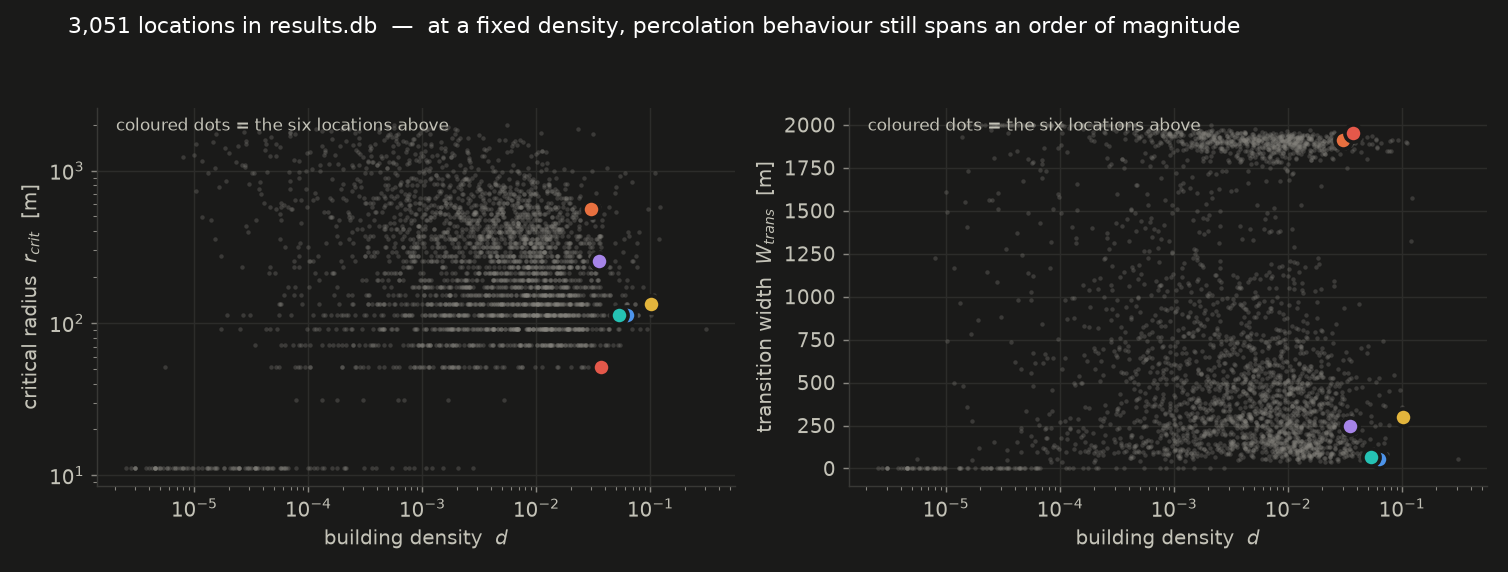
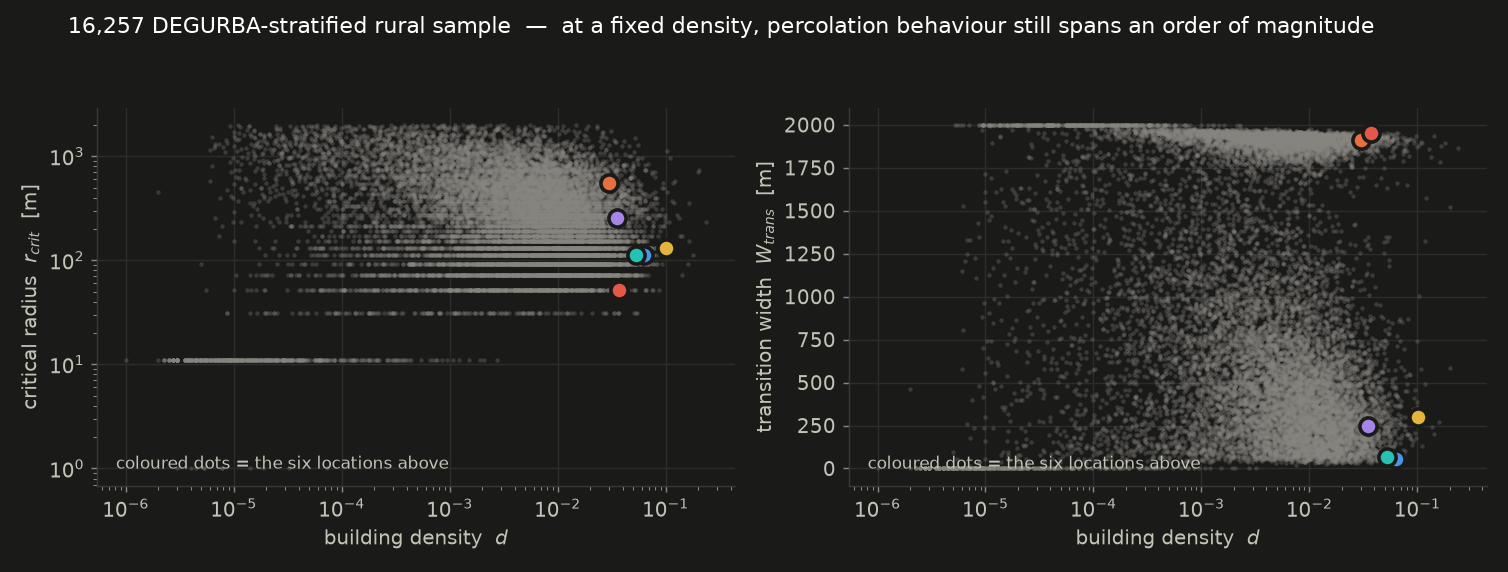
README: コーパス散布図を DEGURBA 層化サンプル 16,257地点に差し替え
これまでこのパネルはこのマシンの results.db（done 3,051地点）だけで描いており、
本番バッチ全体の2割弱しか映していなかった。全機分を統合した実現サンプル
（exp05 の realized_sample.csv）で描き直し、冒頭の6地点をパネル色で重ねた。

make_figures.py に --corpus を追加。省略時の挙動（results.db）は従来どおり。

注意: 統合DB由来の realized_sample.csv には `ops merge` の列ズレ（930f933 で
修正）が入っていたため、本コミットの図は列を正しい対応に戻したものを使っている。
戻しの正しさは results.db と重なる 3,049地点で検証済み（r_crit / W_trans /
gamma / perc_gmax の4指標すべて 100.00% 一致）。元からズレていなかった 217行
(1.3%) は補正すると不整合になるため除外し、16,257地点を採用した。
統合DBを修正版 merge で作り直したら、そのまま --corpus に渡せば図は再現できる。

r_crit の横縞はアーティファクトではなく、パーコレーションの距離グリッド
（config.yaml の d_steps）による量子化であることを README に明記した。

Claude-Session: https://claude.ai/code/session_01TnnMMyhWv1cDxWDR5vzFBe

diff --git a/docs/make_figures.py b/docs/make_figures.py
@@ -1,11 +1,13 @@
 """README 用の図を results.db から生成する。
 
-    .venv/bin/python docs/make_figures.py --db results/results.db --out docs/assets
+    .venv/bin/python docs/make_figures.py --db results/results.db --out docs/assets \
+        --corpus experiments/exp05_degurba_breakdown/realized_sample.csv
 
 生成物（すべて docs/assets/):
-  sample_{dense,sparse}.png    パイプラインが出力したオーバーレイ PNG の縮小版
+  samples_{light,dark}.png     建物数密度を揃えた6地点のオーバーレイ 2×3
   curves_{light,dark}.png      3指標の曲線（percolation / lacunarity / MFA）の対比
   corpus_{light,dark}.png      コーパス全体での density vs 相転移指標の散布図
+                               （--corpus 省略時は results.db のみ）
   outliers_{light,dark}.png    指標空間のはずれ値5地点 + オーバーレイの色凡例
 
 light / dark の2枚組は GitHub の `<picture>` によるテーマ切り替え用。
@@ -255,13 +257,27 @@ def make_curves(conn: sqlite3.Connection, out: Path, mode: str) -> None:
 
 # ---------------------------------------------------------------- corpus
 
-def make_corpus(conn: sqlite3.Connection, out: Path, mode: str) -> None:
+def make_corpus(conn: sqlite3.Connection, out: Path, mode: str,
+                corpus_csv: Path | None = None) -> None:
+    """コーパス散布図。
+
+    既定は results.db（このマシンが処理した分）。`--corpus` に
+    exp05 の realized_sample.csv を渡すと、DEGURBA 層化サンプルの実現分
+    （全機分を統合したもの）で描く。README の図は後者で生成している。
+    """
     t = THEMES[mode]
     apply_theme(t)
-    df = pd.read_sql(
-        "SELECT name, lat, lon, density, r_crit, W_trans, gamma FROM locations "
-        "WHERE status='done' AND density > 0 AND r_crit IS NOT NULL", conn
-    )
+    if corpus_csv is not None:
+        df = pd.read_csv(corpus_csv)
+        need = {"density", "r_crit", "W_trans"}
+        if not need <= set(df.columns):
+            raise SystemExit(f"{corpus_csv}: 必要な列が無い ({need - set(df.columns)})")
+        df = df[(df["density"] > 0) & df["r_crit"].notna()]
+    else:
+        df = pd.read_sql(
+            "SELECT name, lat, lon, density, r_crit, W_trans, gamma FROM locations "
+            "WHERE status='done' AND density > 0 AND r_crit IS NOT NULL", conn
+        )
     fig, axes = plt.subplots(1, 2, figsize=(11.6, 4.4))
     panels = [
         (axes[0], "r_crit", "critical radius  $r_{crit}$  [m]", True),
@@ -279,15 +295,17 @@ def make_corpus(conn: sqlite3.Connection, out: Path, mode: str) -> None:
             ax.plot(row["density"], row[col], "o", ms=9.5, color=color,
                     mec=t["surface"], mew=2, zorder=5)
         ax.annotate("coloured dots = the six locations above",
-                    (0.03, 0.94), xycoords="axes fraction",
+                    (0.03, 0.045), xycoords="axes fraction",
                     color=t["ink2"], fontsize=9.5, zorder=6)
         ax.set_xscale("log")
         if logy:
             ax.set_yscale("log")
         ax.set_xlabel("building density  $d$")
         ax.set_ylabel(ylabel)
+    src = ("DEGURBA-stratified rural sample" if corpus_csv is not None
+           else "locations in results.db")
     fig.suptitle(
-        f"{len(df):,} locations in results.db  —  at a fixed density, "
+        f"{len(df):,} {src}  —  at a fixed density, "
         "percolation behaviour still spans an order of magnitude",
         color=t["ink"], fontsize=12, x=0.045, ha="left", y=0.972,
     )
@@ -459,6 +477,9 @@ def main() -> None:
     ap.add_argument("--db", default="results/results.db")
     ap.add_argument("--images", default=None, help="default: <db の親>/images")
     ap.add_argument("--out", default="docs/assets")
+    ap.add_argument("--corpus", default=None,
+                    help="コーパス散布図に使う CSV（exp05 の realized_sample.csv）。"
+                         "省略時は results.db")
     ap.add_argument("--reselect", action="store_true",
                     help="はずれ値のランキングを引き直して表示する（図は作らない）")
     args = ap.parse_args()
@@ -481,7 +502,8 @@ def main() -> None:
         for mode in ("light", "dark"):
             make_samples(conn, images_dir, out, mode)
             make_curves(conn, out, mode)
-            make_corpus(conn, out, mode)
+            make_corpus(conn, out, mode,
+                        Path(args.corpus) if args.corpus else None)
             make_outliers(conn, images_dir, out, mode)
         print_sample_table(conn)
         print_outlier_table(conn)

diff --git a/README.md b/README.md
@@ -214,14 +214,18 @@ there to show *which part of the settlement each exponent is listening to*.
 
 ### Across a corpus
 
-`density` on its own collapses a lot of structure. Over the locations currently in
-`results.db`, the percolation behaviour at any fixed density still spans an order of
-magnitude:
+`density` on its own collapses a lot of structure. Over the **16,257 rural locations** of the
+DEGURBA-stratified global sample, the percolation behaviour at any fixed density still spans
+an order of magnitude — the six locations above are marked in their panel colours:
 
 <picture>
   <source media="(prefers-color-scheme: dark)" srcset="docs/assets/corpus_dark.png">
-  <img src="docs/assets/corpus_light.png" alt="Two scatter plots over 3,051 locations: building density against critical radius r_crit, and against transition width W_trans" width="100%">
+  <img src="docs/assets/corpus_light.png" alt="Two scatter plots over 16,257 rural locations: building density against critical radius r_crit, and against transition width W_trans, with the six sample locations marked" width="100%">
 </picture>
+
+Reproduce with `--corpus <realized_sample.csv>`; without it the panel falls back to whatever
+is in the local `results.db`. The horizontal banding in `r_crit` is real — it is quantised by
+the percolation distance grid (`d_steps` in `config.yaml`).
 
 `experiments/exp01_density_breakdown/` takes this further, estimating the density levels at
 which the discriminative contribution of *d* breaks down against a uniform baseline.

diff --git a/README.ja.md b/README.ja.md
@@ -204,13 +204,17 @@ flowchart LR
 
 ### コーパス全体で見ると
 
-`density` 単体では潰れる情報が多い。現在 `results.db` にある地点で見ると、密度を固定しても
-パーコレーション挙動は1桁のレンジに散る:
+`density` 単体では潰れる情報が多い。DEGURBA層化サンプルの実現分 **16,257地点**で見ると、
+密度を固定してもパーコレーション挙動は1桁のレンジに散る。上の6地点は各パネルの色で示した:
 
 <picture>
   <source media="(prefers-color-scheme: dark)" srcset="docs/assets/corpus_dark.png">
-  <img src="docs/assets/corpus_light.png" alt="3,051地点の散布図2枚: 建物密度 vs 臨界半径 r_crit、建物密度 vs 転移幅 W_trans" width="100%">
+  <img src="docs/assets/corpus_light.png" alt="16,257地点の散布図2枚: 建物密度 vs 臨界半径 r_crit、建物密度 vs 転移幅 W_trans、上の6地点を色付きで表示" width="100%">
 </picture>
+
+再現するには `--corpus <realized_sample.csv>` を渡す。省略するとローカルの `results.db` に
+あるものだけで描かれる。`r_crit` の横縞は本物で、パーコレーションの距離グリッド
+（`config.yaml` の `d_steps`）による量子化。
 
 `experiments/exp01_density_breakdown/` ではこれをさらに進め、*d* の識別寄与が一様基準を
 割り込む密度水準を推定している。
